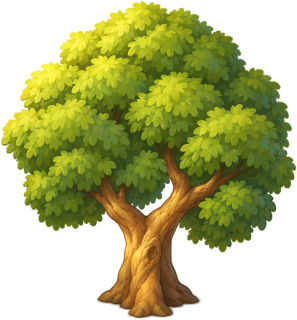
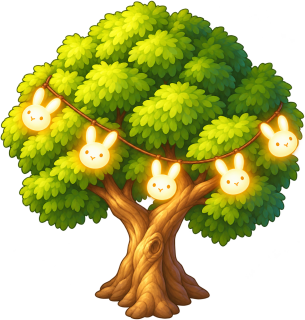
Ajouter neuf décorations peintes et illuminer les arbres

diff --git a/src/config/decorations.ts b/src/config/decorations.ts
@@ -1,7 +1,7 @@
 /** Removed catalogue IDs: discard owned copies when decoding v16 saves, without compensation. */
 export const RETIRED_DECORATION_IDS = ['wildflowers', 'flowering-bush', 'moss-rock', 'garden-lantern', 'wood-bench', 'flower-arch', 'fruit-tree', 'small-pond', 'soft-cushion', 'ball-toys', 'play-tunnel', 'small-parasol'] as const;
 /** Stable save identifiers. Precious objects have a Heart price; decoration has no gameplay bonus. */
-export const DECORATION_IDS = ['dirt-path', 'bush', 'tree', 'hay-bale', 'bunny-slippers', 'birthday-candle', 'small-bookcase', 'coconut-palm', 'otter-plush', 'large-bookcase', 'hanukkah-menorah', 'honey-pot', 'robot-statue'] as const;
+export const DECORATION_IDS = ['dirt-path', 'bush', 'tree', 'hay-bale', 'bunny-slippers', 'birthday-candle', 'small-bookcase', 'coconut-palm', 'otter-plush', 'large-bookcase', 'hanukkah-menorah', 'honey-pot', 'robot-statue', 'penguin-bookcase', 'ironing-board', 'climbing-rock', 'white-bouquet', 'rabbit-fountain', 'shark-slippers', 'vintage-microscope', 'game-console', 'chocolate-cake'] as const;
 export type DecorationId = typeof DECORATION_IDS[number];
 export interface DecorationDefinition {name: string; price: number; heartPrice?: number; area: 'outside'; width: number; height: number; rotates: boolean; level?: number; art: {
   /** Relative to the Vite base; displayed width in world units before camera zoom. */
@@ -24,6 +24,15 @@ export const DECORATIONS: Record<DecorationId, DecorationDefinition> = {
   // Owner's own artwork, shipped unchanged (only cropped and reduced like every decoration).
   'honey-pot': {name: 'Pot de miel géant', price: 70, area: 'outside', width: 2, height: 2, rotates: false, level: 4, art: {file: 'assets/decorations/honey-pot.png', worldWidth: 95, anchor: {x: .5, y: 0.9}}},
   'robot-statue': {name: 'Statue du robot noir et doré', price: 15000, heartPrice: 80, area: 'outside', width: 2, height: 2, rotates: false, level: 22, art: {file: 'assets/decorations/robot-statue.png', worldWidth: 52, anchor: {x: .5, y: 0.95}}},
+  'penguin-bookcase': {name: 'Armoire de livres Penguin', price: 5000, area: 'outside', width: 2, height: 1, rotates: false, level: 14, art: {file: 'assets/decorations/penguin-bookcase.png', worldWidth: 96, anchor: {x: .5, y: .93}}},
+  'ironing-board': {name: 'Table à repasser jaune', price: 300, area: 'outside', width: 2, height: 1, rotates: false, level: 6, art: {file: 'assets/decorations/ironing-board.png', worldWidth: 70, anchor: {x: .5, y: .93}}},
+  'climbing-rock': {name: 'Rocher d’escalade', price: 900, area: 'outside', width: 2, height: 2, rotates: false, level: 8, art: {file: 'assets/decorations/climbing-rock.png', worldWidth: 85, anchor: {x: .5, y: .93}}},
+  'white-bouquet': {name: 'Vase de fleurs blanches', price: 100, area: 'outside', width: 1, height: 1, rotates: false, level: 4, art: {file: 'assets/decorations/white-bouquet.png', worldWidth: 40, anchor: {x: .5, y: .93}}},
+  'rabbit-fountain': {name: 'Vasque lapin en pierre', price: 1500, area: 'outside', width: 2, height: 2, rotates: false, level: 10, art: {file: 'assets/decorations/rabbit-fountain.png', worldWidth: 85, anchor: {x: .5, y: .93}}},
+  'shark-slippers': {name: 'Chaussons requins', price: 50, area: 'outside', width: 1, height: 1, rotates: false, level: 3, art: {file: 'assets/decorations/shark-slippers.png', worldWidth: 38, anchor: {x: .5, y: .8}}},
+  'vintage-microscope': {name: 'Vaccin contre la tuberculose', price: 3500, area: 'outside', width: 2, height: 1, rotates: false, level: 15, art: {file: 'assets/decorations/vintage-microscope.png', worldWidth: 78, anchor: {x: .5, y: .93}}},
+  'game-console': {name: 'Nintendo Switch', price: 5000, area: 'outside', width: 2, height: 1, rotates: false, level: 16, art: {file: 'assets/decorations/game-console.png', worldWidth: 65, anchor: {x: .5, y: .93}}},
+  'chocolate-cake': {name: 'Gâteau chocolat « je t’aime »', price: 150, area: 'outside', width: 2, height: 2, rotates: false, level: 5, art: {file: 'assets/decorations/chocolate-cake.png', worldWidth: 80, anchor: {x: .5, y: .93}}},
 };
 export const FINE_GRID = 4;
 /** A generous bound keeps imports and low-end devices bounded; never discards owned objects. */

diff --git a/tests/missions-catalogue.test.ts b/tests/missions-catalogue.test.ts
@@ -25,15 +25,15 @@ function reload(s: GameState): GameState {
 describe('full main mission catalogue from level seven', () => {
   it('contains one stable identifier per current species and decoration, and exactly twenty new milestones', () => {
     expect(DISCOVERY_MISSION_IDS).toEqual(SPECIES_IDS.map(id => `discover-${id}`)); expect(DISCOVERY_MISSION_IDS).toHaveLength(32);
-    expect(DECORATION_MISSION_IDS).toEqual(DECORATION_IDS.map(id => `decorate-${id}`)); expect(DECORATION_MISSION_IDS).toHaveLength(13);
-    expect(MILESTONE_MISSION_IDS).toHaveLength(20); expect(MAIN_MISSION_IDS).toHaveLength(96); expect(new Set(MAIN_MISSION_IDS).size).toBe(96);
+    expect(DECORATION_MISSION_IDS).toEqual(DECORATION_IDS.map(id => `decorate-${id}`)); expect(DECORATION_MISSION_IDS).toHaveLength(22);
+    expect(MILESTONE_MISSION_IDS).toHaveLength(20); expect(MAIN_MISSION_IDS).toHaveLength(105); expect(new Set(MAIN_MISSION_IDS).size).toBe(105);
     for (const id of ['discover-terre', 'discover-mottelin', 'discover-geant', 'discover-brumelin']) expect(Object.hasOwn(MAIN_MISSIONS, id)).toBe(false);
   });
   it('keeps the original sequential start below seven, then exposes all objectives even with an unfinished guide', () => {
     const young = atLevel(6); expect(visibleMainMissions(young)).toEqual(['snow-habitat']);
     expect(eligibleMainMissionIds(young)).not.toContain('discover-paille');
     expect(act(young, {type: 'claimMainMission', id: 'discover-paille'}, 0)).toMatchObject({ok: false, reason: 'NOT_READY'});
-    const s = atLevel(); expect(visibleMainMissions(s)).toEqual(catalogueMainMissionIds(s)); expect(visibleMainMissions(s)).toHaveLength(93);
+    const s = atLevel(); expect(visibleMainMissions(s)).toEqual(catalogueMainMissionIds(s)); expect(visibleMainMissions(s)).toHaveLength(102);
     expect(visibleMainMissions(s)).toEqual(expect.arrayContaining(['level-thirty', 'discover-dragon', 'decorate-robot-statue', 'snow-habitat']));
     const claimed = run(s, {type: 'claimMainMission', id: 'discover-paille'});
     expect(visibleMainMissions(claimed)).toContain('discover-paille'); expect(activeMainMissions(claimed)).not.toContain('discover-paille');
@@ -42,7 +42,7 @@ describe('full main mission catalogue from level seven', () => {
   });
   it('keeps initial rewards scoped to the historical course and retired goals unclaimable at every level', () => {
     const s = previousStart(0); s.progression = {totalXp: cumulativeLevelXp(30), rewardedThroughLevel: 30};
-    const state = advance(s, 0); expect(visibleMainMissions(state)).toHaveLength(91);
+    const state = advance(s, 0); expect(visibleMainMissions(state)).toHaveLength(100);
     for (const id of ['snow-habitat', 'welcome-snow', 'cozy-nest', 'welcome-babies', 'first-rare'] as const) {
       state.missions.completed.push(id);
       expect(visibleMainMissions(state)).not.toContain(id);

diff --git a/tests/decorations-v2.test.ts b/tests/decorations-v2.test.ts
@@ -13,11 +13,24 @@ const expected = [
  ['coconut-palm','Cocotier',800,2,2,8], ['otter-plush','Peluche de loutre géante',1500,2,2,10],
  ['large-bookcase','Grande bibliothèque',4000,2,1,12], ['hanukkah-menorah','Ménorah de Hanoucca',2500,1,1,14],
  ['honey-pot','Pot de miel géant',70,2,2,4], ['robot-statue','Statue du robot noir et doré',15000,2,2,22],
+ ['penguin-bookcase','Armoire de livres Penguin',5000,2,1,14], ['ironing-board','Table à repasser jaune',300,2,1,6],
+ ['climbing-rock','Rocher d’escalade',900,2,2,8], ['white-bouquet','Vase de fleurs blanches',100,1,1,4],
+ ['rabbit-fountain','Vasque lapin en pierre',1500,2,2,10], ['shark-slippers','Chaussons requins',50,1,1,3],
+ ['vintage-microscope','Vaccin contre la tuberculose',3500,2,1,15], ['game-console','Nintendo Switch',5000,2,1,16],
+ ['chocolate-cake','Gâteau chocolat « je t’aime »',150,2,2,5],
 ] as const;
 describe('approved painted decorations', () => {
- it('contains exactly the thirteen painted decorations', () => {
+ it('contains exactly the twenty-two painted decorations', () => {
   expect(DECORATION_IDS).toEqual(expected.map(row => row[0]));
   expect(Object.keys(DECORATIONS)).toEqual(expected.map(row => row[0]));
+ });
+ it('round-trips every current model in a v21 inventory without replacing existing objects', () => {
+  const s=createCentreStartGame(0);s.nextId=200;
+  const baseline=decodeGame(encodeGame(s));if(!baseline.ok)throw Error(baseline.reason);
+  const saved=baseline.state;
+  saved.decorations=DECORATION_IDS.map((catalogId,index)=>({id:`decoration-${100+index}`,catalogId,location:{kind:'inventory'},placementXpProcessed:false}));
+  expect(decodeGame(encodeGame(saved))).toEqual({ok:true,state:saved});
+  expect(saved.decorations.find(d=>d.catalogId==='tree')!.id).toBe('decoration-102');
  });
  it.each(expected)('%s has its approved price, footprint, level, and half-price resale', (id,name,price,width,height,level) => {
   expect(DECORATIONS[id]).toMatchObject({name,price,width,height,level,rotates:false,area:'outside'});

diff --git a/tests/ui-dom.test.ts b/tests/ui-dom.test.ts
@@ -290,7 +290,7 @@ describe('decoration UI transactions (simulated DOM; Phaser verified separately)
     button('Acheter · 20 pièces',catalog('bush')).click();
     expect(state(controller).decorations).toEqual([]); expect(state(controller).pattes).toBe(350);
     ui.select({kind:'fineCell',x:25,y:23}); button('Annuler le placement').click();
-    expect(panel().scrollTop).toBe(240); expect(panel().querySelectorAll('[data-catalog]')).toHaveLength(13);
+    expect(panel().scrollTop).toBe(240); expect(panel().querySelectorAll('[data-catalog]')).toHaveLength(22);
     expect(state(controller).pattes).toBe(350);
     button('Acheter · 20 pièces',catalog('bush')).click();
     ui.select({kind:'fineCell',x:18,y:20}); expect(button('Acheter et placer · 20 pièces').disabled).toBe(true);
@@ -1254,9 +1254,9 @@ describe('mobile menu continuity', () => {
     const flowers = panel().querySelector<HTMLElement>('[data-catalog="bush"]')!;
     button('Acheter pour l’inventaire · 20 pièces', flowers).click(); button('Confirmer', document.getElementById('game-dialog')!).click();
     expect(document.getElementById('panel-title')!.textContent).toBe('Boutique');
-    expect(panel().querySelectorAll('[data-catalog]')).toHaveLength(13); expect(panel().scrollTop).toBe(240);
+    expect(panel().querySelectorAll('[data-catalog]')).toHaveLength(22); expect(panel().scrollTop).toBe(240);
     ui.close(); document.getElementById('open-shop')!.click(); button('Bâtiments et décorations').click(); button('Décorations').click();
-    expect(panel().querySelectorAll('[data-catalog]')).toHaveLength(13); expect(panel().scrollTop).toBe(240);
+    expect(panel().querySelectorAll('[data-catalog]')).toHaveLength(22); expect(panel().scrollTop).toBe(240);
     expect(state(controller).pattes).toBe(330); expect(state(controller).decorations).toHaveLength(1);
     expect(state(controller).decorations[0].location).toEqual({kind: 'inventory'});
     button('Bâtiments').click(); panel().scrollTop = 180; button('Placer · 60 pièces').click();

diff --git a/tests/decoration-art.test.js b/tests/decoration-art.test.js
@@ -1,5 +1,18 @@
 import {expect, it} from 'vitest';
 import {execFileSync} from 'node:child_process';
+import {readFileSync} from 'node:fs';
+import {DECORATION_IDS} from '../src/config/decorations';
+import {decodePng} from '../scripts/derive-nursery-overlays.mjs';
+it('covers the full catalogue with compact transparent painted textures', () => {
+ const manifest=JSON.parse(readFileSync('scripts/decoration-art-manifest.json','utf8'));
+ expect(Object.keys(manifest).sort()).toEqual([...DECORATION_IDS].sort());
+ for (const id of DECORATION_IDS) {
+  const image=decodePng(readFileSync(`public/assets/decorations/${id}.png`));
+  expect(Math.max(image.width,image.height)).toBeLessThanOrEqual(320);
+  expect(image.pixels.some((value,index)=>index%4===3&&value===0)).toBe(true);
+  expect(image.pixels.some((value,index)=>index%4===3&&value>=250)).toBe(true);
+ }
+});
 it('verifies every approved decoration source and derivative SHA-1', () => {
  expect(() => execFileSync(process.execPath, ['scripts/derive-decoration-art.mjs', '--check'], {encoding:'utf8'})).not.toThrow();
 }, 30000);

diff --git a/tests/foundations.test.ts b/tests/foundations.test.ts
@@ -89,7 +89,7 @@ describe('technical foundation regressions', () => {
   expect(gate.run('outer',()=>{expect(gate.run('inner',action)).toBe(false);})).toBe(true);
  });
  it('validates stable catalogue references, safe costs, recipes and durations', () => {
-  expect(new Set(SPECIES_IDS).size).toBe(EXPECTED_IDS.length); expect(new Set(DECORATION_IDS).size).toBe(13);
+  expect(new Set(SPECIES_IDS).size).toBe(EXPECTED_IDS.length); expect(new Set(DECORATION_IDS).size).toBe(22);
   for(const id of SPECIES_IDS){const species=SPECIES[id];expect(species.name).toBeTruthy();expect(growthDuration(id)).toBeGreaterThan(0);expect(Number.isSafeInteger(growthDuration(id))).toBe(true);
    if(species.price!==null)expect(Number.isSafeInteger(species.price)&&species.price>=0).toBe(true);
    if(species.recipe){expect(species.recipe.minAffection).toBeGreaterThanOrEqual(BALANCE.breedingAffection);expect(species.recipe.minAffection).toBeLessThanOrEqual(BALANCE.maxAffection);for(const parent of species.recipe.parents??[])expect(SPECIES_IDS).toContain(parent);}

diff --git a/tests/progression.test.ts b/tests/progression.test.ts
@@ -45,7 +45,7 @@ describe('pure player progression v17',()=>{
   expect(()=>validateProgressionConfig()).not.toThrow();expect(SPECIES_IDS.map(id=>requiredSpeciesLevel(id))).toEqual([...HISTORICAL_LEVELS, ...NEW_RARES.flatMap(r => r.id === 'egiiipte' ? [1, 1] : [1]), ...NEW_SPECIALS.map(s => s.unlockLevel)]);
   expect(HABITAT_TYPES.map(type=>requiredHabitatLevel(type))).toEqual([6,1,1,5,7,9]);
   expect(requiredHabitatUpgradeLevel('neige',2)).toBe(3);expect(requiredHabitatUpgradeLevel('metal',3)).toBe(12);expect(requiredHabitatUpgradeLevel('universal',3)).toBe(11);
-  expect(DECORATION_IDS.map(id=>requiredDecorationLevel(id))).toEqual([1,1,1,2,3,5,6,8,10,12,14,4,22]);
+  expect(DECORATION_IDS.map(id=>requiredDecorationLevel(id))).toEqual([1,1,1,2,3,5,6,8,10,12,14,4,22,14,6,8,4,10,3,15,16,5]);
   expect(Array.from({length:8},(_,i)=>requiredExtensionLevel(i+1))).toEqual([4,6,8,10,12,15,18,22]);
   for(const rank of [0,9,1.5,NaN])expect(()=>requiredExtensionLevel(rank)).toThrow(RangeError);
  });

diff --git a/docs/decorations.md b/docs/decorations.md
@@ -46,7 +46,7 @@ Reproduire le parcours tactile : `NODE_PATH=CHEMIN_PLAYWRIGHT PRAIRIE_CAPTURE_DI
 
 Paramètres : `src/config/decorations.ts`. Les images peintes sont partagées entre boutique et prairie via `src/display/decorationArt.ts`. Toutes les décorations se posent dehors, sans rotation.
 
-| Identifiant stable | Objet | Pattes | Empreinte | Niveau |
+| Identifiant stable | Objet | Prix | Empreinte | Niveau |
 |---|---|---:|---|---:|
 | `dirt-path` | Chemin en terre | 1 | 1 × 1 | 1 |
 | `bush` | Buisson | 20 | 1 × 1 | 1 |
@@ -59,8 +59,23 @@ Paramètres : `src/config/decorations.ts`. Les images peintes sont partagées en
 | `otter-plush` | Peluche de loutre géante | 1 500 | 2 × 2 | 10 |
 | `large-bookcase` | Grande bibliothèque | 4 000 | 2 × 1 | 12 |
 | `hanukkah-menorah` | Ménorah de Hanoucca | 2 500 | 1 × 1 | 14 |
+| `honey-pot` | Pot de miel géant | 70 | 2 × 2 | 4 |
+| `robot-statue` | Statue du robot noir et doré | 80 cœurs | 2 × 2 | 22 |
+| `penguin-bookcase` | Armoire de livres Penguin | 5 000 | 2 × 1 | 14 |
+| `ironing-board` | Table à repasser jaune | 300 | 2 × 1 | 6 |
+| `climbing-rock` | Rocher d’escalade | 900 | 2 × 2 | 8 |
+| `white-bouquet` | Vase de fleurs blanches | 100 | 1 × 1 | 4 |
+| `rabbit-fountain` | Vasque lapin en pierre | 1 500 | 2 × 2 | 10 |
+| `shark-slippers` | Chaussons requins | 50 | 1 × 1 | 3 |
+| `vintage-microscope` | Vaccin contre la tuberculose | 3 500 | 2 × 1 | 15 |
+| `game-console` | Nintendo Switch | 5 000 | 2 × 1 | 16 |
+| `chocolate-cake` | Gâteau chocolat « je t’aime » | 150 | 2 × 2 | 5 |
 
-Objets esthétiques : aucun bonus, mission, revenu, affection ou changement des probabilités. Achats uniquement en pattes, jamais par complément en cœurs. Plusieurs exemplaires sont permis ; chaque achat possède son identifiant `decoration-N`. Vente d’un exemplaire placé ou en réserve : 50 % du prix d’achat en pattes, arrondi à l’entier inférieur, aucun remboursement en cœurs. Le taux est centralisé dans `DECORATION_RESALE_RATE`. Depuis la refonte économique v17, la revente ne dépasse jamais le prix payé, enregistré par exemplaire (`paidPrice`) ; un exemplaire plus ancien est plafonné à son prix d’avant la refonte. Les bâtiments, habitats et lapins sont exclus. Déplacements et rangements gratuits. Hypothèse de protection des imports/appareils modestes : 512 exemplaires possédés maximum, objets rangés compris. Un refus ne détruit aucun objet.
+Le catalogue compte 22 modèles. Les neuf nouveautés du 29 octobre reprennent la planche peinte v2 approuvée par le propriétaire ; l’arbre existant reçoit une guirlande de lampes blanches en forme de têtes de lapin, éclairées en jaune. Son identifiant, son prix et ses dimensions restent inchangés, y compris pour les arbres déjà possédés. Le rocher d’escalade est une pierre à prises colorées. Le microscope ancien est accompagné de cinq fioles bleue, violette, verte, jaune et rouge. Les nouveaux achats utilisent seulement les pattes ; le robot conserve son prix existant en cœurs.
+
+Ces objets utilisent les circuits existants d’achat, de pose et de vente. Chaque nouveau modèle reçoit automatiquement sa mission « Installer » et les 10 XP de première pose déjà prévus par le catalogue ; aucun coefficient de progression n’est modifié. Les quatre collections de souvenirs existantes conservent leurs listes de modèles. Les anciennes sauvegardes v21 restent acceptées ; une ancienne build ne connaît pas les neuf nouveaux identifiants.
+
+Objets esthétiques : aucun bonus de revenu, d’affection ou de probabilités. Les achats se font en pattes, sauf les objets précieux explicitement tarifés en cœurs ; aucun complément automatique en cœurs. Plusieurs exemplaires sont permis ; chaque achat possède son identifiant `decoration-N`. Vente d’un exemplaire placé ou en réserve : 50 % du prix d’achat en pattes, arrondi à l’entier inférieur, aucun remboursement en cœurs. Le taux est centralisé dans `DECORATION_RESALE_RATE`. Depuis la refonte économique v17, la revente ne dépasse jamais le prix payé, enregistré par exemplaire (`paidPrice`) ; un exemplaire plus ancien est plafonné à son prix d’avant la refonte. Les bâtiments, habitats et lapins sont exclus. Déplacements et rangements gratuits. Hypothèse de protection des imports/appareils modestes : 512 exemplaires possédés maximum, objets rangés compris. Un refus ne détruit aucun objet.
 
 ## Utilisation et gestes
 
